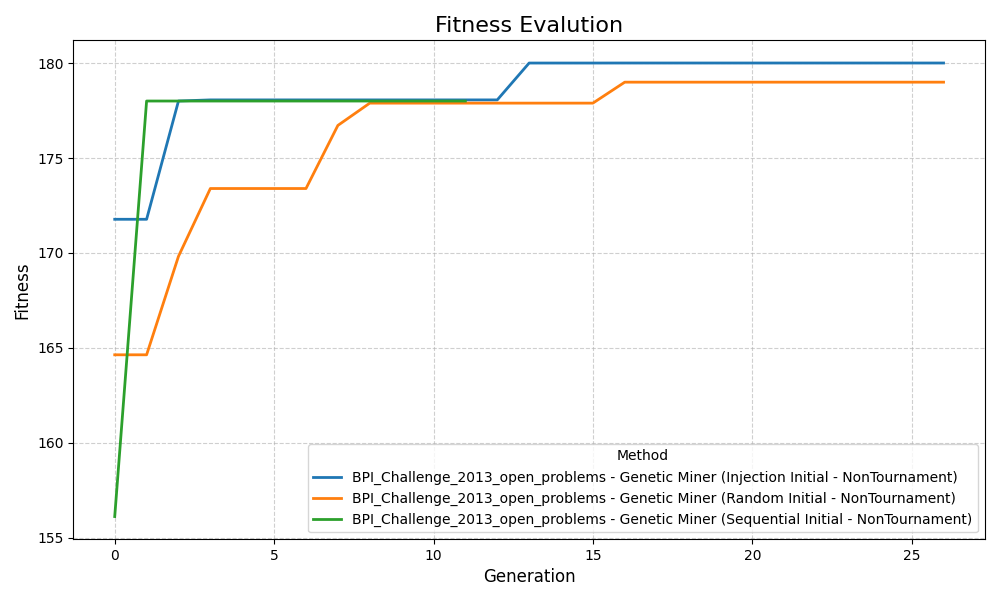
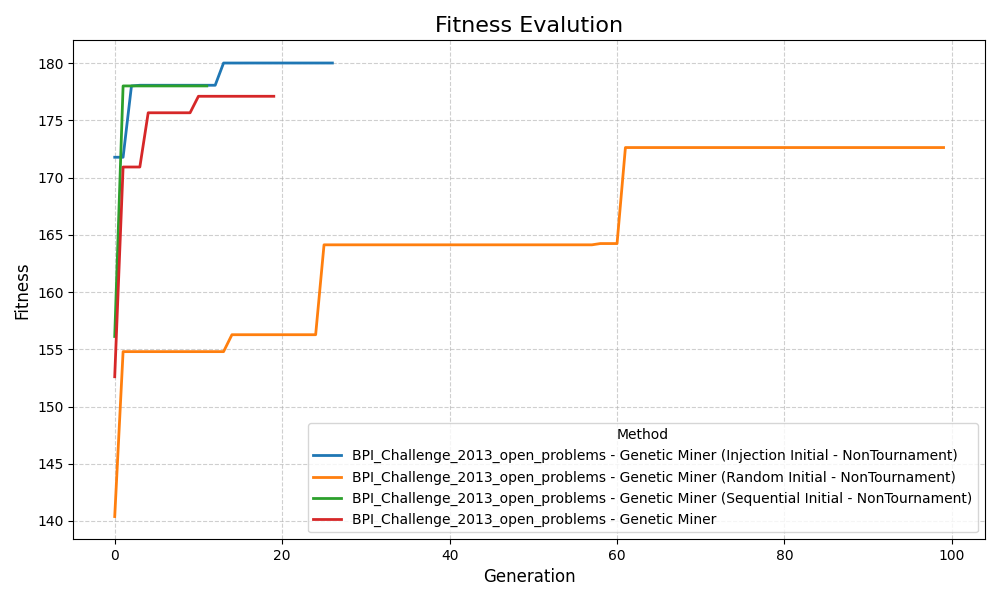
hyperparameter optimization

diff --git a/hyperparameter_tuning.py b/hyperparameter_tuning.py
@@ -1,0 +1,135 @@
+import optuna
+import os
+import time
+import pickle as pkl
+from optuna_dashboard import run_server
+from src.Discovery import Discovery
+from src.FileLoader import FileLoader
+from src.Evaluator import SingleEvaluator
+from src.Mutator import TournamentMutator, Mutator
+from src.RandomTreeGenerator import BottomUpBinaryTreeGenerator, SequentialTreeGenerator, InjectionTreeGenerator
+from src.Objective import Objective
+import pandas as pd
+
+
+FITNESS_WEIGHTS = {
+    "simplicity": 20,
+    "refined_simplicity": 20,
+    "ftr_fitness": 100,
+    "ftr_precision": 50
+}
+INPUT_DIR = "./real_life_datasets/"
+OUTPUT_DIR = "./real_life_datasets_results/" 
+
+
+def objective(trial, event_log, fitness_weights=dict[str, float]):
+    # Suggest hyperparameters
+    random_creation_rate = trial.suggest_float("random_creation_rate", 0.0, 1.0)
+    mutation_rate = trial.suggest_float("mutation_rate", 0.0, 1.0)
+    crossover_rate = trial.suggest_float("crossover_rate", 0.0, 1.0)
+    elite_rate = trial.suggest_float("elite_rate", 0.0, 1.0)
+    population_size = trial.suggest_int("population_size", 20, 100)
+    percentage_of_log = trial.suggest_float("percentage_of_log", 0.01, 0.5)
+    generator = trial.suggest_categorical("generator", ["Buttom", "Sequential"])
+    mutator = trial.suggest_categorical("mutator", ["Tournament", "NonTournament"])
+    
+    # Normalize them so that they sum to 1
+    total = mutation_rate + crossover_rate + random_creation_rate + elite_rate
+    mutation_rate = mutation_rate / total
+    crossover_rate = crossover_rate / total
+    random_creation_rate = random_creation_rate / total
+    elite_rate = elite_rate / total
+
+    # Create the mutator
+    if mutator == "Tournament":
+        tournament_size = trial.suggest_float("tournament_size", 0.3, 0.5)
+        mutator = TournamentMutator(
+                    random_creation_rate=random_creation_rate, 
+                    crossover_rate=crossover_rate, 
+                    mutation_rate=mutation_rate, 
+                    elite_rate=elite_rate,
+                    tournament_size=tournament_size)
+    elif mutator == "NonTournament":
+        mutator = Mutator(
+                    random_creation_rate=random_creation_rate, 
+                    crossover_rate=crossover_rate, 
+                    mutation_rate=mutation_rate, 
+                    elite_rate=elite_rate)
+        
+    # Create the generator
+    if generator == "Buttom":
+        generator = BottomUpBinaryTreeGenerator()
+    elif generator == "Sequential":
+        generator = SequentialTreeGenerator()
+    elif generator == "Injection":
+        log_filtering = trial.suggest_float("log_filtering", 0.0, 1.0)
+        generator = InjectionTreeGenerator(log_filtering=log_filtering)
+
+    # Run the genetic miner
+    start = time.time()
+    petri_net = Discovery.genetic_algorithm(
+        event_log,
+        method_name="Genetic Miner",
+        objective=Objective(metric_weights={"simplicity": 20, "refined_simplicity": 20, "ftr_fitness": 100, "ftr_precision": 50}),
+        mutator=mutator,
+        generator=generator,
+        percentage_of_log=percentage_of_log,
+        population_size=population_size,
+        stagnation_limit=15,
+        time_limit=2,
+    )
+    end = time.time()
+
+    # Evaluate fitness — should return a single value (higher is better)
+    evaluator = SingleEvaluator(petri_net, event_log)
+    fitness_score = evaluator.get_objective_fitness(fitness_weights)
+
+    return fitness_score
+
+
+if __name__ == "__main__":    
+    data = []
+    dataset_dirs = os.listdir(INPUT_DIR)
+    dataset_dirs = [x for x in dataset_dirs if not os.path.isfile(f"{INPUT_DIR}{x}")]
+    loader = FileLoader()
+
+    for dataset_dir in dataset_dirs:
+        data = []
+
+        # Assume only one file per directory
+        # if dataset_dir != "BPI_Challenge_2013_open_problems":
+        #     continue
+        xes_file = [f for f in os.listdir(f"{INPUT_DIR}{dataset_dir}") if f.endswith(".xes")]
+        if len(xes_file) == 0:
+            continue
+        elif len(xes_file) == 1:
+            loaded_log = loader.load_eventlog(f"{INPUT_DIR}{dataset_dir}/{xes_file[0]}")
+            eventlog = loaded_log
+        else:
+            raise ValueError("More than one xes file in the directory")
+
+        for i in range(5):
+            sampler = optuna.samplers.TPESampler()
+            study = optuna.create_study(direction="maximize", sampler=sampler, storage="sqlite:///db.sqlite3")
+            study.optimize(
+                lambda trial: objective(trial, eventlog, FITNESS_WEIGHTS),
+                show_progress_bar=True, 
+                n_trials=3,
+                n_jobs=1,
+            )
+            
+            best_params = study.best_params
+            best_value = study.best_value
+            
+            data.append(
+                {
+                    **best_params,
+                    "objective": best_value,
+                }
+            )
+        
+        df = pd.DataFrame(data)
+        df.to_csv(f"./best_params/{dataset_dir}-optuna-best-params.csv", index=False)
+
+        
+

diff --git a/genetic_miner_benchmark.py b/genetic_miner_benchmark.py
@@ -36,33 +36,32 @@ if __name__ == "__main__":
             generator=BottomUpBinaryTreeGenerator(),
             objective=Objective(metric_weights={"simplicity": 20, "refined_simplicity": 20, "ftr_fitness": 100, "ftr_precision": 50}),
             percentage_of_log=0.1,
-            max_generations=100,
-            population_size=100,
-            stagnation_limit=10
+            population_size=5,
+            # stagnation_limit=10
         ),
-        "Genetic Miner (Sequencial Initial - NonTournament)": lambda log: Discovery.genetic_algorithm(
-            log,
-            method_name="Genetic Miner (Sequential Initial - NonTournament)",
-            mutator=Mutator(random_creation_rate=0.2, crossover_rate=0.3, mutation_rate=0.3, elite_rate=0.2),
-            generator=SequentialTreeGenerator(),
-            objective=Objective(metric_weights={"simplicity": 20, "refined_simplicity": 20, "ftr_fitness": 100, "ftr_precision": 50}),
-            percentage_of_log=0.1,
-            max_generations=100,
-            population_size=100,
-            stagnation_limit=10,
-        ),
-        "Genetic Miner (Injection Initial - NonTournament)": lambda log: Discovery.genetic_algorithm(
-            log,
-            method_name="Genetic Miner (Injection Initial - NonTournament)",
-            mutator=Mutator(random_creation_rate=0.2, crossover_rate=0.3, mutation_rate=0.3, elite_rate=0.2),
-            generator=InjectionTreeGenerator(log_filtering=0.05),
-            objective=Objective(metric_weights={"simplicity": 20, "refined_simplicity": 20, "ftr_fitness": 100, "ftr_precision": 50}),
-            percentage_of_log=0.1,
-            max_generations=100,
-            population_size=100,
-            stagnation_limit=10
-        ),
-        "Inductive Miner": lambda log: Discovery.inductive_miner(log),
+        # "Genetic Miner (Sequencial Initial - NonTournament)": lambda log: Discovery.genetic_algorithm(
+        #     log,
+        #     method_name="Genetic Miner (Sequential Initial - NonTournament)",
+        #     mutator=Mutator(random_creation_rate=0.2, crossover_rate=0.3, mutation_rate=0.3, elite_rate=0.2),
+        #     generator=SequentialTreeGenerator(),
+        #     objective=Objective(metric_weights={"simplicity": 20, "refined_simplicity": 20, "ftr_fitness": 100, "ftr_precision": 50}),
+        #     percentage_of_log=0.1,
+        #     max_generations=100,
+        #     population_size=100,
+        #     stagnation_limit=10,
+        # ),
+        # "Genetic Miner (Injection Initial - NonTournament)": lambda log: Discovery.genetic_algorithm(
+        #     log,
+        #     method_name="Genetic Miner (Injection Initial - NonTournament)",
+        #     mutator=Mutator(random_creation_rate=0.2, crossover_rate=0.3, mutation_rate=0.3, elite_rate=0.2),
+        #     generator=InjectionTreeGenerator(log_filtering=0.05),
+        #     objective=Objective(metric_weights={"simplicity": 20, "refined_simplicity": 20, "ftr_fitness": 100, "ftr_precision": 50}),
+        #     percentage_of_log=0.1,
+        #     max_generations=100,
+        #     population_size=100,
+        #     stagnation_limit=10
+        # ),
+        # "Inductive Miner": lambda log: Discovery.inductive_miner(log),
     }
 
     multi_evaluator = MultiEvaluator(eventlogs, methods_dict)

diff --git a/src/Mutator.py b/src/Mutator.py
@@ -20,6 +20,7 @@ class Mutator(MutatorBase):
         self.crossover_rate = crossover_rate
         self.mutation_rate = mutation_rate
         self.elite_rate = elite_rate
+        self.mutation_types_weights = None
         
     def set_event_log(self, event_log: EventLog):
         self.event_log = event_log
@@ -181,6 +182,14 @@ class Mutator(MutatorBase):
         
         pt_copy = deep_copy_tree(process_tree)
         mutation_type = random.choice(['loop_addition', 'operator_swap', 'subtree_removal', 'leaf_addition'])
+        
+        # define discrete distribution for mutation types
+        # mutation_type = random.choices(
+        #     ['loop_addition', 'operator_swap', 'subtree_removal', 'leaf_addition'],
+        #     weights=[0.25, 0.25, 0.25, 0.25]
+        # )[0]
+        
+        
 
         if mutation_type == 'operator_swap':
             new_tree = operator_swap(pt_copy)
@@ -194,10 +203,9 @@ class Mutator(MutatorBase):
         return new_tree
     
     def generate_new_population(self, old_population: Population) -> Population:
-        assert self.random_creation_rate + self.crossover_rate + self.mutation_rate + self.elite_rate == 1.0, "Rates must sum to 1.0"
         new_population = Population([])
         population_size = len(old_population.get_population())
-        
+
         # Add elite trees
         elite = old_population.get_best_trees(int(population_size * self.elite_rate))
         new_population.add_trees(elite)
@@ -217,7 +225,13 @@ class Mutator(MutatorBase):
         for _ in range(mutation_count):
             parent = random.choice(old_population.get_population())
             new_population.add_tree(self.mutation(parent))
-    
+            
+        # Ensure the new population size is the same as the old one
+        if len(new_population) < population_size:
+            missing_trees = population_size - len(new_population)
+            random_trees = self.random_creation(missing_trees)
+            new_population.add_trees(random_trees)
+            
         return new_population
 
 class TournamentMutator(Mutator):
@@ -249,6 +263,12 @@ class TournamentMutator(Mutator):
         # Random creation
         random_population = self.random_creation(int(self.random_creation_rate * population_size))
         new_population.add_trees(random_population)
+        
+        # Ensure the new population size is the same as the old one
+        if len(new_population) < population_size:
+            missing_trees = population_size - len(new_population)
+            random_trees = self.random_creation(missing_trees)
+            new_population.add_trees(random_trees)
         
         return new_population
 

diff --git a/src/Discovery.py b/src/Discovery.py
@@ -4,7 +4,7 @@ from src.GeneticAlgorithm import GeneticAlgorithm
 from pm4py.algo.discovery.inductive.algorithm import apply as pm4py_inductive_miner
 from pm4py.objects.conversion.process_tree import converter as pt_converter
 from src.PetriNet import PetriNet
-
+import numpy as np
 
 class Discovery:
     @staticmethod
@@ -18,7 +18,7 @@ class Discovery:
         
         # Args for the run algorithm
         population_size=kwargs.get("population_size")
-        max_generations = kwargs.get("max_generations")
+        max_generations = kwargs.get("max_generations", 1_000_000_000)
         min_fitness=kwargs.get("min_fitness", None)
         stagnation_limit=kwargs.get("stagnation_limit", None)
         time_limit=kwargs.get("time_limit", None)

diff --git a/src/GeneticAlgorithm.py b/src/GeneticAlgorithm.py
@@ -85,7 +85,7 @@ class GeneticAlgorithm:
         elif isinstance(generator, InjectionTreeGenerator):
             population = generator.generate_population(eventlog, n=population_size)
         
-        for generation in tqdm.tqdm(range(max_generations), desc="Discovering process tree", unit="generation"):
+        for generation in tqdm.tqdm(range(max_generations), desc="Discovering process tree", unit="generation"):   
             # Evaluate the fitness of each tree
             objective.evaluate_population(population)
             

diff --git a/best_params/analyze.py b/best_params/analyze.py
@@ -1,0 +1,12 @@
+import pandas as pd
+import os
+
+datasets = os.listdir("./best_params")
+datasets = [dataset for dataset in datasets if dataset.endswith(".csv")]
+
+
+
+for dataset in datasets:
+    df = pd.read_csv(f"./best_params/{dataset}")
+    
+

diff --git a/analyze_storage.py b/analyze_storage.py
@@ -1,0 +1,9 @@
+import pickle as pkl
+from optuna_dashboard import run_server
+
+
+# Load pikcle file 
+
+    
+# Run the server
+run_server(storage="sqlite:///db.sqlite3")
